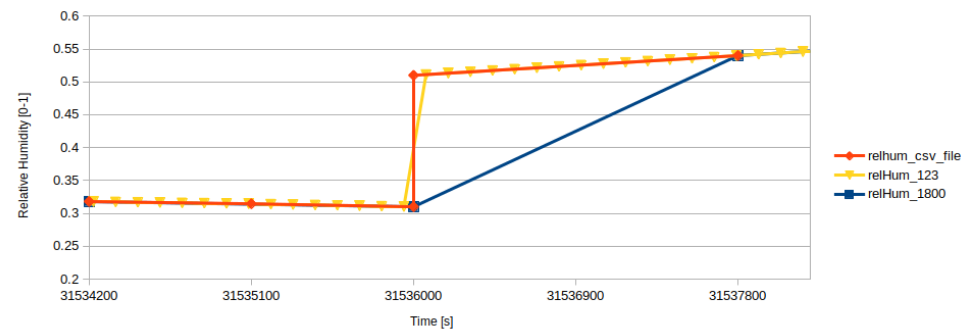
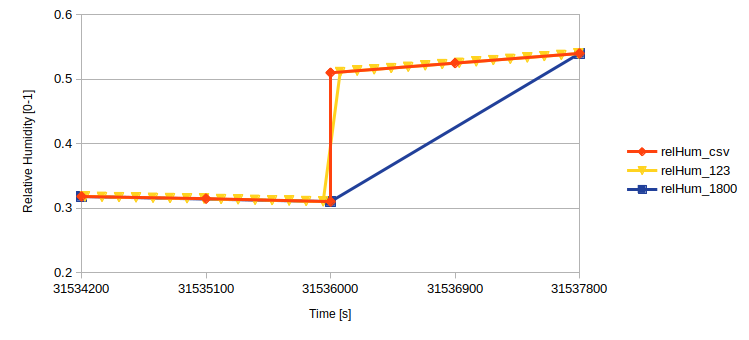
Update design text and image

diff --git a/docs/design/source/forecasts.rst b/docs/design/source/forecasts.rst
@@ -3,10 +3,13 @@
 Forecast Generation
 ===================
 
+Forecaster Module
+-----------------
+
 A forecaster module is developed to retrieve forecast from a BOPTEST
 testcase, which is needed for predictive controllers. This module uses the
-data_manager object of a test case to read the deterministic forecast from
-the testcase wrapped.fmu. In future developments it will be possible to
+:code:`data_manager` object of a test case to read the deterministic forecast from
+the testcase :code:`wrapped.fmu`. In future developments it will be possible to
 request stochastic forecast with a predefined distribution over the
 deterministic forecast for research purposes. This distribution will be
 added on the top of the deterministic forecast mentioned before.
@@ -16,20 +19,29 @@ the forecast from the actual simulation time. The controller developer may
 also filter the forecast for a specific data category or request all data
 variables and filter it afterwards.
 
-**Getting Forecasts Across Year-End**
+Getting Weather Forecasts Across Year-End
+-----------------------------------------
 
-This subsection shows how the forecast is handled when going across the year.
-At the edge between current and new year of simulation the boundary 
-conditions are discontinuous in the .csv files, as an example see the relative
-humidity in the chart below (orange line). 
-The current implementation splits the data at simulation year-end inclusive of 
-the last data point at the end of the year (midnight), and after year-end not 
-inclusive of the first data point at the start of the year (midnight). The 
-implementation is done this way so that the forecast is more consistent for 
-any interval through the full first year if a user only intends to simulate one 
-year. The relative humidity plot below shows the interpolation behavior of the 
-implementation graphically for forecast intervals of 1800s and 123s (as in the 
-unit tests), compared to the reference boundary condition .csv file.
+The data in TMY weather files used in BOPTEST test cases are discontinuous
+at the end of the year relative to the start of the year.
+Therefore, so is the weather data in the .csv files supplied for weather
+forecast generation.  As an example, see the relative humidity in the
+figure below (orange line). If weather forecasts are asked for that cross
+year-end, the :code:`data_manager` object used by the forcaster module splits the
+data at year-end into one portion that is inclusive of the last data point
+at the end of the year (midnight), and one portion after the end of the
+year that is not inclusive of the first data point at the start of the
+year (midnight). The implementation is done this way so that the forecast
+is more consistent for any interval through the full first year if a user
+only intends to simulate one year. The relative humidity plot below shows
+the interpolation behavior of the implementation graphically for forecast
+intervals of 1800s and 123s (intervals used in the unit tests), compared
+to the reference weather boundary condition data at 1800s intervals
+in the .csv file.
 
 .. figure:: images/relative_humidity_over_year_sim.png
     :scale: 50 %
+
+    Forecast retrieved across one year for intervals of 1800s (blue) and
+    123s (yellow) compared to the reference data in the boundary condition
+    .csv file (orange), shown for relative humidity.
